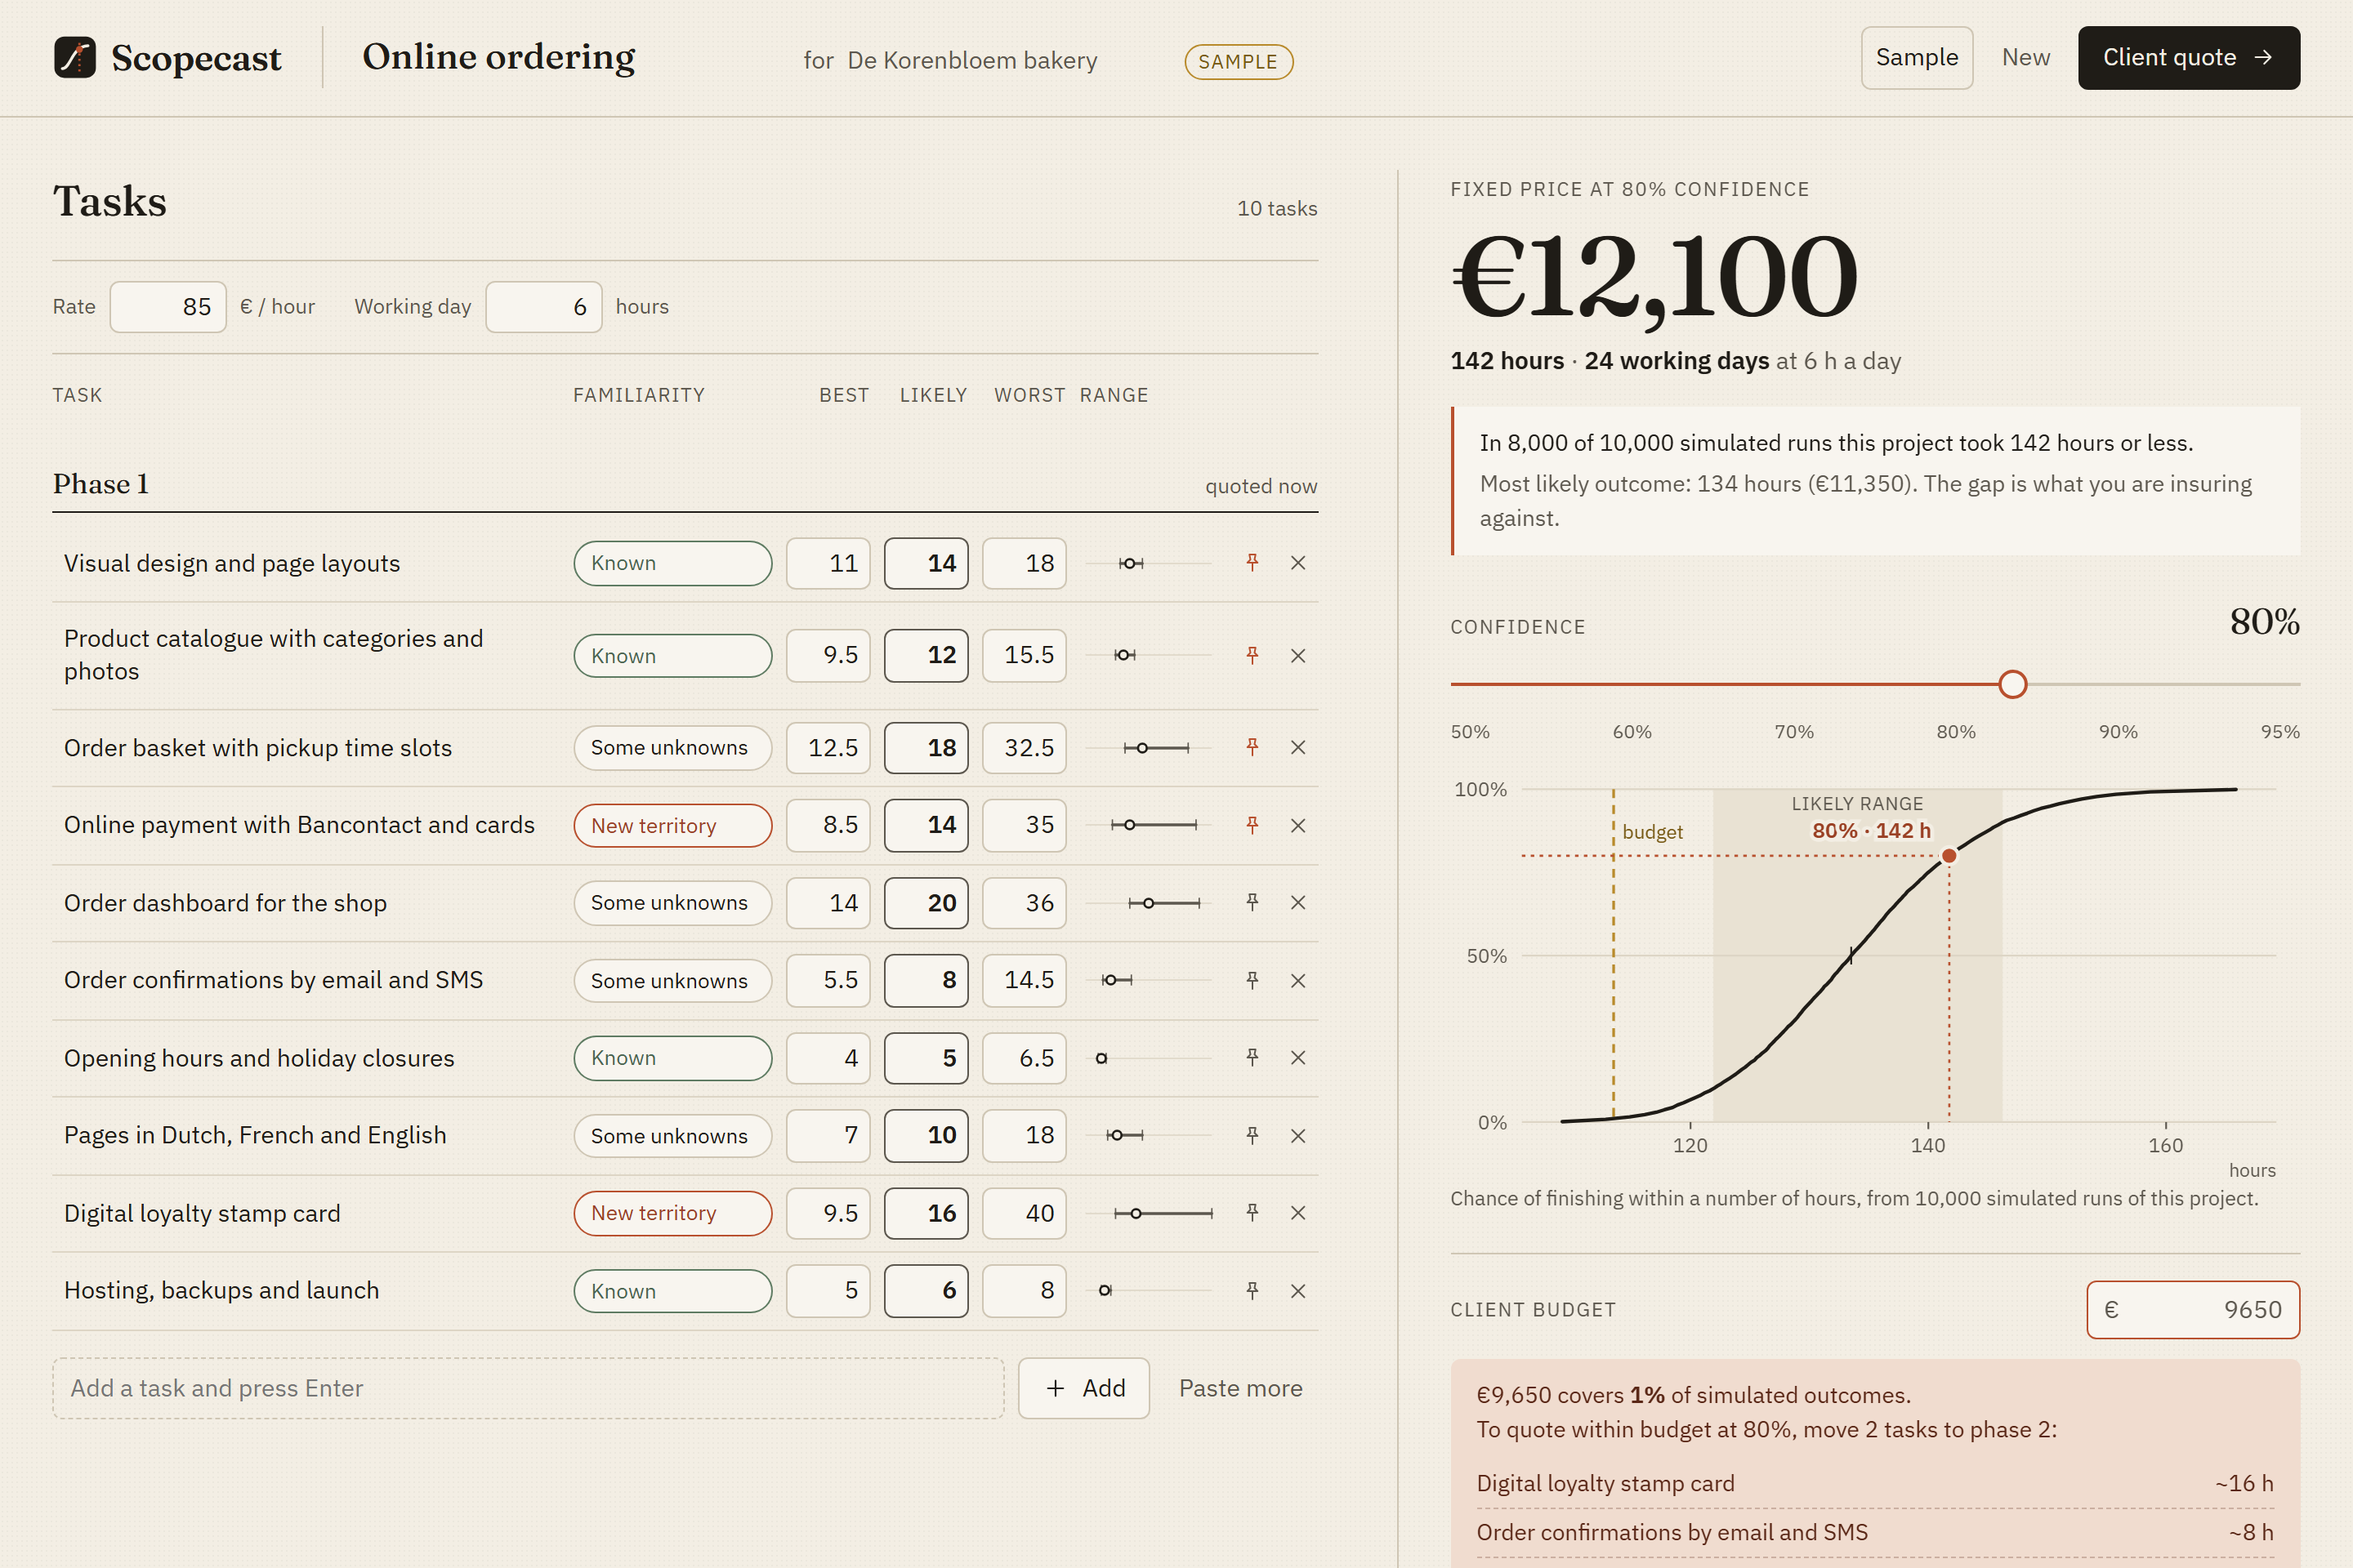
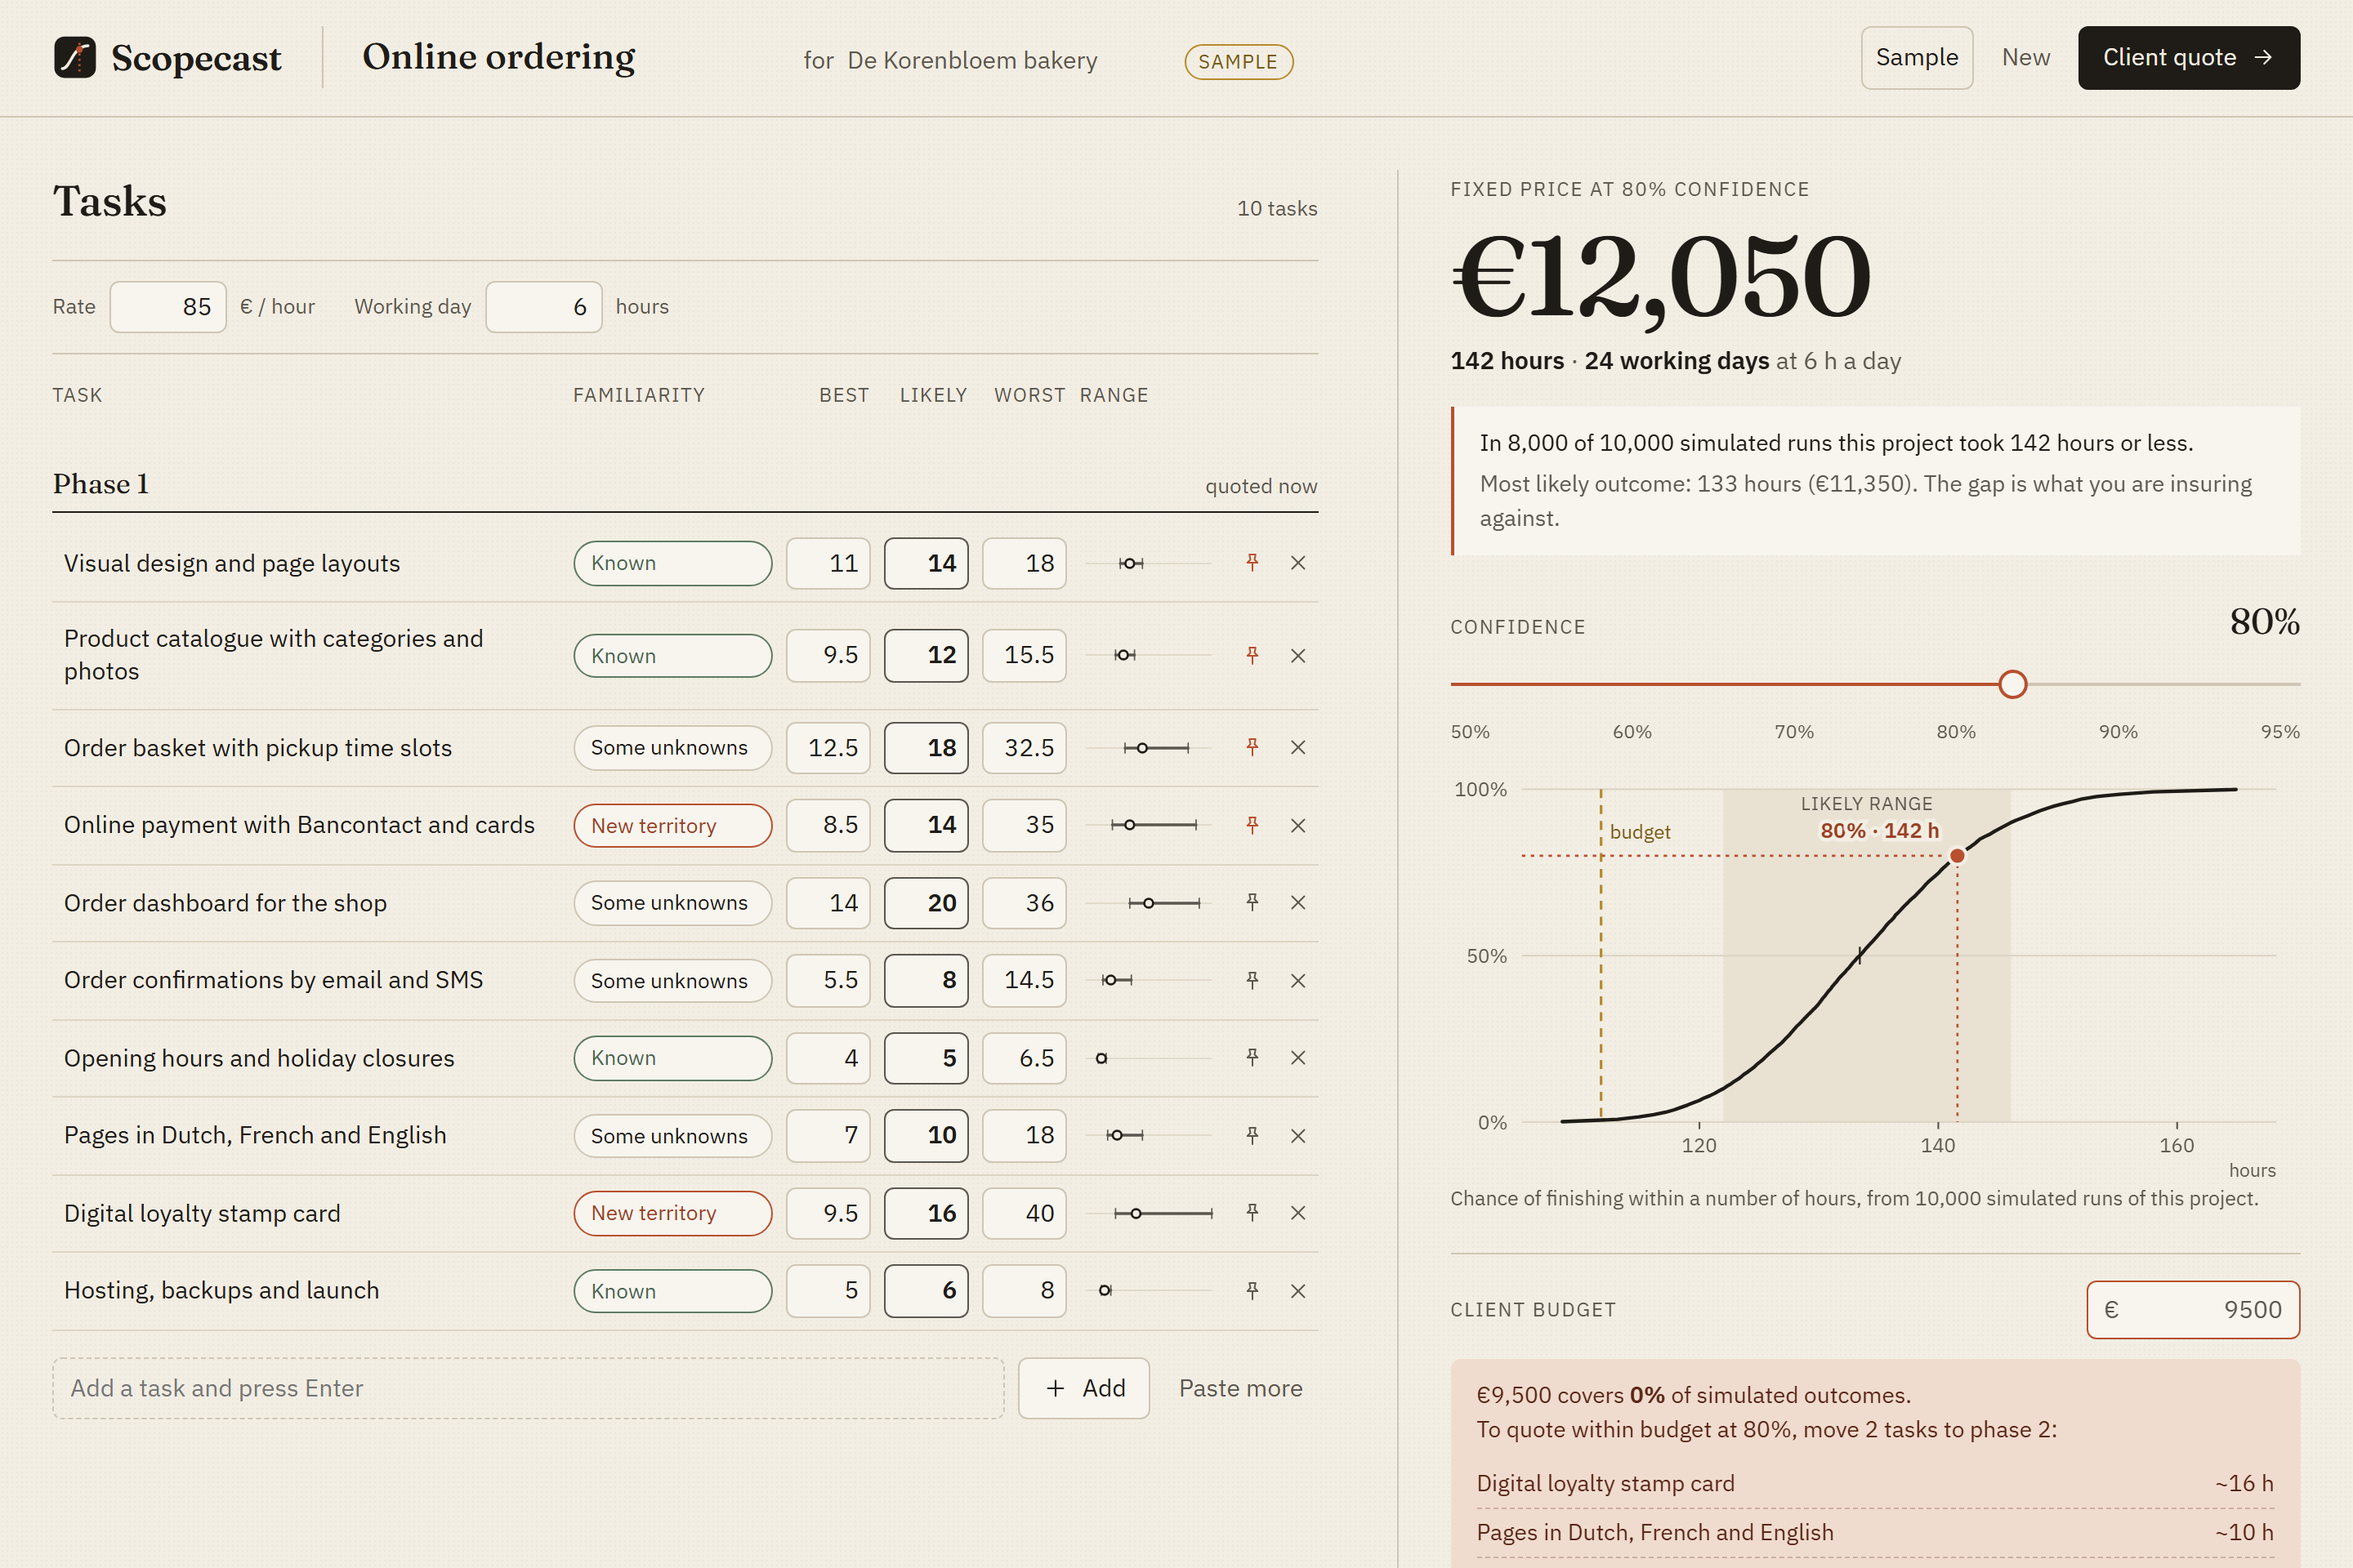
Recapture gallery screenshots on the current build
Screenshots 02-05 and the sample quote PDF came from an earlier build
(EUR 12,100 at 80%). Recaptured with scripts/e2e_check.py, which now uses
the same EUR 9,500 client budget as the demo video: EUR 12,050 at 80%
confidence, EUR 9,400 after moving two tasks to phase 2.

diff --git a/scripts/e2e_check.py b/scripts/e2e_check.py
@@ -74,7 +74,9 @@ def main() -> None:
         page.wait_for_timeout(200)
         page.screenshot(path=str(OUT / "02-sample-forecast.png"))
         full = euros(page.get_by_test_id("price").inner_text())
-        budget = int(full * 0.8 // 50 * 50)
+        # Same client budget as the demo video and write-up, so the screenshots match them.
+        budget = 9500
+        check(budget < full, f"budget {budget} is below the full quote {full}")
         page.get_by_label("Client budget in euros").fill(str(budget))
         page.wait_for_timeout(500)
         verdict = page.get_by_test_id("verdict").inner_text()
